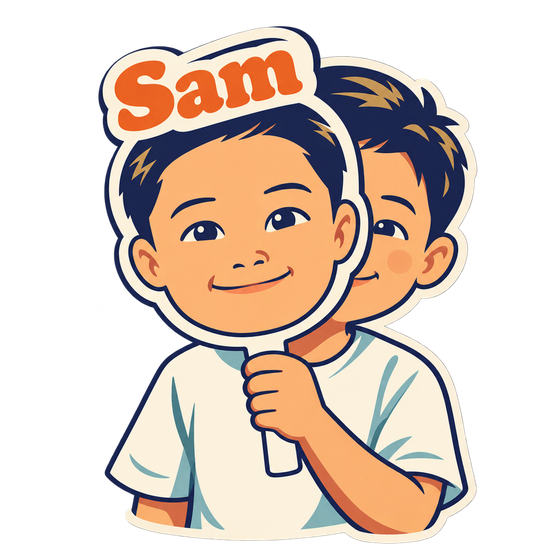
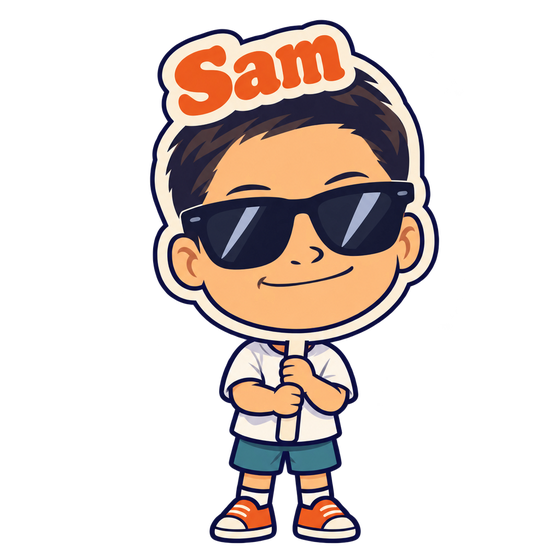
feat: 吉祥物 v3 大头墨镜版 + 栏目改「⭐ 国民级精品」
反差是笑点的全部：巨大的面具头（比身体还大）＋ 面具上戴墨镜的酷脸，
配一副小身板和橙色小球鞋。面具完全遮住后面的真脸，一点不露。

v2 的问题是头不够大、真脸从侧面露出来、没有反差。
关键 prompt：exaggerated BIG-HEAD chibi proportions +
mask 2-3x the torso + COMPLETELY covers his real face +
COOL BLACK SUNGLASSES + "the whole joke is the CONTRAST"。

明暗两个模式都合成验过，四角 alpha=0。190KB。

diff --git a/README.md b/README.md
@@ -218,7 +218,7 @@ xxoo/
 
 ---
 
-## 🏅 国民哥哥，必属精品
+## ⭐ 国民级精品
 
 <img align="right" width="190" src="./mascot.png" alt="国民哥哥 Sam">
 
